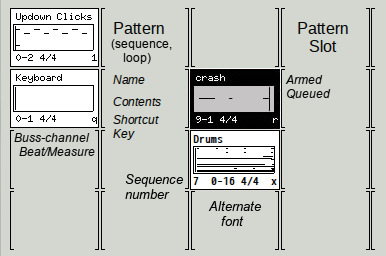
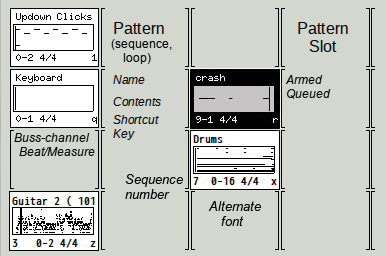
Ongoing documentation of new tempo-event features for pending 0.93.1 release.

Changed region(s): [[0.0, 0.7188, 0.2798, 1.0]]

diff --git a/tex/seq64_meta_events.tex b/tex/seq64_meta_events.tex
@@ -6,7 +6,7 @@
 % \library     Documents
 % \author      Chris Ahlstrom
 % \date        2017-07-23
-% \update      2017-07-23
+% \update      2017-08-06
 % \version     $Revision$
 % \license     $XPC_GPL_LICENSE$
 %
@@ -21,9 +21,8 @@
    In recent versions of \textsl{Sequencer64} we are attempting better support
    for MIDI Meta and System Exclusive events, as well as a Tempo track.
    At present (v. 0.93.1), \textsl{Sequencer64} now supports the display of Set
-   Tempo and Time Signature events.  They can also be added and edited, though,
-   in this version, only in the event editor
-   see \sectionref{sec:seq64_event_editor}.
+   Tempo and Time Signature events.  They can also be added and edited, in various
+   ways.  For example, see \sectionref{sec:seq64_event_editor}.
    Furthermore, at this time only the first Tempo and Time Signature events are
    used to modify playback.
    System Exclusive support is also still in progress.
@@ -40,7 +39,7 @@
       \item Tempo and Time signature display and editing in the event editor.
    \end{enumerate}
 
-   Before we discuss these items, we need to note how the tempo track is
+   Before we discuss these items, we need to note \textsl{how} the tempo track is
    implemented in \textsl{Sequencer64}.  Rather man make a SeqSpec track for
    the tempo events, we follow the MIDI specification, which mandates that
    Tempo events must occur only in the first track.  \textsl{Sequencer64} has
@@ -48,6 +47,9 @@
    MIDI events and can be viewed (and later, edited) in the existing
    user-interface elements.  Notes and other events can occur in the same
    track, if the user-musician so desires.
+
+   To reiterate, track 1 (pattern 0) is the only track where tempo events
+   can be placed and edited.
 
 \subsection{"usr" BPM Display Settings}
 \label{subsec:meta_events_usr}
@@ -67,30 +69,94 @@
    information.  These settings can only be made by editing the "usr" file
    while \textsl{Sequencer64} is not running.
 
-\subsection{BPM Display in a Main Window Pattern slot}
-\label{subsec:meta_events_mainwid_slot}
+\subsection{Composite Display of Tempos}
+\label{subsec:meta_events_composite_display}
 
-The following figure shows a note and some tempo changes.
+The following figure shows a composite picture of the various representations
+of Set Tempo events.
 
 \begin{figure}[H]
    \centering 
-   \includegraphics[scale=1.0]{meta/mainwid_pattern_tempo.png}
-   \caption{Tempo in Pattern Slot}
-   \label{fig:meta_events_mainwid_slot}
+   \includegraphics[scale=0.75]{meta/combined_tempo_display.png}
+   \caption{Various Tempo Displays}
+   \label{fig:meta_events_tempo_displays}
 \end{figure}
 
-The tempo is shown as a dashed cyan-colored line at the relative for the tempo,
+The top of the figure shows the magenta tempo lines in a pattern slot that
+is currently being edited.  This view cannot be directly edited, but the event
+editor and the main window's BPM settings can be used to add, delete, or adjust
+the tempo.
+
+The middle shows the very similar representation of the tempo in the Song
+Editor.  Again, this view does not (currently) allow editing of the tempo events.
+
+The bottom shows tempo as an event (in the event strip) and a data value
+in the data pane.  A tempo event can be added here by holding the Ctrl key
+and painting an event in the event strip, and it can then be modified by
+same method that note velocities can be edited.  Note that tempo events 
+are \textsl{always} shown in the event strip and the data pane, no matter
+what other \textbf{Event} type has been selected.
+
+\subsection{Tempo in the Main Window}
+\label{subsec:meta_events_mainwid}
+
+% The following figure shows a note and some tempo changes.
+%
+% \begin{figure}[H]
+%   \centering 
+%   \includegraphics[scale=1.0]{meta/mainwid_pattern_tempo.png}
+%   \caption{Tempo in Pattern Slot}
+%   \label{fig:meta_events_mainwid_slot}
+% \end{figure}
+%
+% This figure is out-of-date.
+
+The tempo is shown as a solid magenta-colored line at the relative for the tempo,
 based on the minimum and maximum values configured in the "usr" file as
 discussed in the previous section.
-This display is rudimentary.  It doesn't allow for ramping of the tempo at
-present, and cannot be directly edited.
+This pattern-slot tempo display is rudimentary.  It doesn't allow for ramping
+of the tempo at present, and cannot be directly edited.
 
-On the books for an upcoming version is to add a "tempo record" button that
-enters the currently-set tempo into the pattern.
+However, tempos can be logged or recorded via magenta-colored controls at the
+bottom of the main window.
+
+\begin{figure}[H]
+   \centering 
+   \includegraphics[scale=1.0]{meta/tempo_recording.png}
+   \caption{Tempo Recording Controls}
+   \label{fig:meta_events_mainwid_tempo_recording}
+\end{figure}
+
+The 0th pattern slot shown in the figure represents Track 1, the
+MIDI Tempo track.  The magenta lines show the tempos already in that track.
+Now look at the BPM control.  The first button to its right ("0") is the
+tempo-tap button, used for setting a tempo by tapping in time to music.
+The light-magenta button that comes next, when pressed while playback is
+occurring, logs a tempo event at the current progress location and the
+current BPM value in the BPM spin-field.  The dark magenta button to the right
+of that toggles the mode of recording the changes to the BPM spin-button while
+playback is occurring.  (The "Q" button is for keep-queues, and is unrelated to
+tempo processing.)
+
+Now, although track 1 (pattern 0) might start out with a length of only a
+measure or two, the performance continually ticks upward, and tempo events that
+are recorded after the end of the track at still recorded, and
+\textsl{they will extend the length of the tempo track automatically}.
+If the "show sequences key" option is enabled, the length of each track, in
+measures, is shown at the top right of each main window pattern slot, so it can
+be tracked by the user.
+
+Once tempo events have been recorded, they can be tweaked (or deleted)
+either in the pattern editor or in the event editor.  Generally, they are
+treated like control events that are always available.  Deleting all tempo
+events will not reduce the (possibly new) length of the sequence.
+
+One more thing to note about the Tempo track is that it will
+\textsl{not} change tempo unless that track is unmuted.
+This behavior is a feature, not a bug.
 
 % \subsubsection{MIDI Metrics, PPQN}
 % \label{subsubsec:meta_events_midi_ppqn}
-
 
 %-------------------------------------------------------------------------------
 % vim: ts=3 sw=3 et ft=tex

diff --git a/tex/seq64_patterns_panel.tex b/tex/seq64_patterns_panel.tex
@@ -22,13 +22,15 @@
    patterns, and combines them to create a full song.  This is a powerful way
    to work, and makes one productive within an hour.
 
-   The \textsl{Sequencer64 Patterns Panel} is the main window of
-   \textsl{Sequencer64}.
+   The \textsl{Sequencer64 Patterns Panel} is the
+   \index{main window}
+   \textbf{main window} of \textsl{Sequencer64}.
    See \figureref{fig:seq64_main_screen}.
-   It is also called the "main window" or the "patterns window".
+   It is called the "main window" or the "patterns window".
    It is here one creates a set of patterns
    (see \sectionref{subsubsec:concepts_terms_screen_set}),
-   manages the configuration, and opens the pattern or song editors.
+   manages the configuration, controls the playback rate, adds tempo events,
+   and opens the pattern or song editors.
 
    \index{live mode}
    \index{mode!live}
@@ -326,9 +328,19 @@
 
    The individual items annoted in this figure are described in
    \sectionref{subsubsec:seq64_patterns_pattern_filled}, in more detail.
-   \textbf{However}, this figure does not show the new feature where the
-   sequence number appears at the bottom left of the slot.  Observe that
-   feature in the first figure of the next section.
+   The slot at the bottom left of this figure shows some new features:
+
+   \begin{itemize}
+      \item The sequence number appears at the bottom left of the slot.
+      \item The hot-key for muting/unmuting the pattern appears at the bottom
+         right of the slot.
+      \item The length of the sequence, in number of measures (bars), appears
+         at the upper right of the slot.
+      \item The default alternate font, which has a little more body than the
+         \textsl{Seq24} font.
+   \end{itemize}
+
+   Observe that feature in the first figure of the next section.
    The two main items are the empty \textsl{pattern slot}, and the slot filled
    with a MIDI \textsl{pattern}:
 
@@ -1096,7 +1108,9 @@
 \label{subsec:seq64_patterns_panel_bottom}
 
    The bottom panel of the Patterns window provides way to control the
-   overall playback of the song.
+   overall playback of the song.  It has changed quite a bit over the last few
+   versions of \textsl{Sequencer64}, and we have not yet caught up with the
+   diagrams.  Refer to the diagram of the whole window, for now.
 
 \begin{figure}[H]
    \centering 
@@ -1111,6 +1125,9 @@
       \item \textbf{Pause}
       \item \textbf{BPM}
       \item \textbf{Tap Tempo}
+      \item \textbf{Log Current Tempo} (new)
+      \item \textbf{Record Tempo Changes} (new)
+      \item \textbf{Keep-Queue Status} (new)
       \item \textbf{Name}
       \item \textbf{Set}
       \item \textbf{Toggle Song Editor}
@@ -1186,6 +1203,31 @@
    This function can also be performed using the keystroke defined
    in \textbf{File / Options / Ext Keys / Tap BPM}.  It defaults
    to the \texttt{F9} key.
+
+   \itempar{Log Current Tempo}{pattern!log tempo}
+   This light-magenta button, when pressed, logs the current tempo at the
+   current playback spot as a Set Tempo meta-event, but only in the first
+   track (pattern slot \#0), and only if it is active.  According to the MIDI 
+   standard, such events should be present \textsl{only} in the first track,
+   and so \textsl{Sequencer64} follows this rule, and also makes tempo events
+   officially supported.  They can be edited in the pattern editor or in the
+   event editor.
+   See \sectionref{sec:meta_events}, for more information.
+
+   \itempar{Record Tempo Changes}{pattern!record tempo}
+   This dark-magenta button becomes light-magenta when activated, and turns on
+   the recording of any tempo changes made in the BPM spinner.  If the spinner
+   is held down indefinitely, a ramping stream of tempo events is created.  If
+   the time exceeds the current length of the tempo track, then the length of
+   the track is automatically increased.
+   Note that these tempo events will not have any effect on playback speed
+   unless the tempo track is unmuted.
+
+   \itempar{Keep-Queue Status}{pattern!keep-queue}
+   This item is the \textbf{Q} button.
+   It provides a visual way to know the current state of keep-queue, and is
+   activated either by clicking on it or by pressing the assigned keep-queue
+   key.
 
    \itempar{Name}{pattern!set name}
    Each of the 32 available screen sets can be given a name by entering it

diff --git a/tex/sequencer64-user-manual.tex b/tex/sequencer64-user-manual.tex
@@ -6,7 +6,7 @@
 % \library     Documents
 % \author      Chris Ahlstrom
 % \date        2015-11-01
-% \update      2017-07-23
+% \update      2017-08-05
 % \version     $Revision$
 % \license     $XPC_GPL_LICENSE$
 %
@@ -50,7 +50,7 @@
 
 \begin{document}
 
-\title{Sequencer64 User Manual 0.92.0}
+\title{Sequencer64 User Manual 0.93.1}
 \author{Chris Ahlstrom \\
    (\texttt{ahlstromcj@gmail.com})}
 \date{\today}
@@ -397,8 +397,10 @@
 %  \includegraphics[scale=0.75]{seq64-first-screen.png}
 %  \includegraphics[scale=0.75]{new/seq64_first_screen.png}
 %  \includegraphics[scale=0.75]{seq64-first-screen-new-buttons.png}
-   \includegraphics[scale=0.75]{new/seq64-first-screen-jack.png}
-   \caption{Sequencer64 Main Screen, Native JACK MIDI}
+%  \includegraphics[scale=0.75]{new/seq64-first-screen-jack.png}
+%  \caption{Sequencer64 Main Screen, Native JACK MIDI}
+   \includegraphics[scale=0.75]{new/seq64-first-screen-alsa.png}
+   \caption{Sequencer64 Main Screen, ALSA MIDI}
    \label{fig:seq64_main_screen}
 \end{figure}
 
@@ -413,10 +415,14 @@
    "Live" or "Song", "Mute", "Menu", and "JACK", "ALSA", or "Native" (native
    JACK MIDI).
    Another new item that \textsl{is} shown is the button with a "0" as its
-   label.  This is the new \textbf{Tap Tempo} button (see
+   label.  This is the \textbf{Tap Tempo} button (see
    \sectionref{subsec:seq64_patterns_panel_bottom} for more information).
-
-   Another new item, not yet shown in the figure, is the \textbf{Q} button,
+   The light magenta button to the right of it, when click, logs the current
+   tempo as a Set Tempo event.  To the right of that is a darker button that
+   toggles the recording of all tempo changes.  (Currently, only those changes
+   made with the main window's BPM spinner are saved; later, incoming tempo
+   events will be recordable.)
+   Another new item is the \textbf{Q} button,
    which both enables and shows the "keep-queue" status, which can also be
    enabled using a keystroke.
 

diff --git a/tex/seq64_event_editor.tex b/tex/seq64_event_editor.tex
@@ -6,7 +6,7 @@
 % \library     Documents
 % \author      Chris Ahlstrom
 % \date        2016-01-02
-% \update      2016-02-17
+% \update      2017-08-01
 % \version     $Revision$
 % \license     $XPC_GPL_LICENSE$
 %
@@ -50,8 +50,13 @@
    things like the performance editor and triggers.
    For now, the event editor is a good way to see the events in a sequence,
    and to delete or modify problematic events.
-   Unlike the event pane in the pattern editor, this dialog shows all types of
-   events at once.
+   Additionally, it can be used to add \textbf{Set Tempo} meta events.
+   \index{sequence extension}
+   \index{pattern extension}
+   Furthermore, if an event is added that has a time-stamp beyond the current
+   length of the sequence, then the length of the sequence is extended.
+   Unlike the event pane in the pattern editor, the event-editor
+   dialog shows all types of events at once.
 
 \begin{figure}[H]
    \centering 
@@ -132,6 +137,9 @@
    The division values range from 0 up to one less than the
    \index{ppqn}
    PPQN (pulses per quarter note) value for the whole song.
+   \index{ppqn!\$ shortcut}
+   As a shortcut, one can use the dollar sign ("\$") to represent
+   PPQN-1.
 
    \itempar{Event Name}{event editor!event name}
    Displays the name of the event.

diff --git a/tex/seq64_pattern_editor.tex b/tex/seq64_pattern_editor.tex
@@ -6,7 +6,7 @@
 % \library     Documents
 % \author      Chris Ahlstrom
 % \date        2015-08-31
-% \update      2017-07-19
+% \update      2017-08-02
 % \version     $Revision$
 % \license     $XPC_GPL_LICENSE$
 %
@@ -1130,7 +1130,7 @@
    reminder that moving these events can really screw up the notes, for example
    by moving Note Off to before the Note On event.
    
-\paragraph{Editing Other Events}
+\paragraph{Event and Data Panels / Editing Other Events}
 \label{paragraph:seq64_pattern_editor_other_events}
 
 %  Left-click or right-click on events in the event strip (directly under

diff --git a/tex/seq64_rc_file.tex b/tex/seq64_rc_file.tex
@@ -898,7 +898,7 @@
       236 39 65379  # group on, off, learn: igrave apostrophe Insert
       # replace, queue, snapshot_1, snapshot 2, keep queue:
       65507 65508 65513 65514 92  # Control_L Control_R Alt_L Alt_R backslash
-      1             # show_ui_sequence_key (1=true/0=false)
+      1             # show_ui_sequence_key and pattern measures (1=true/0=false)
       32            # space start sequencer
       65307         # Escape stop sequencer
       0 #  show sequence numbers (1 = true / 0 = false);  ignored in legacy mode
